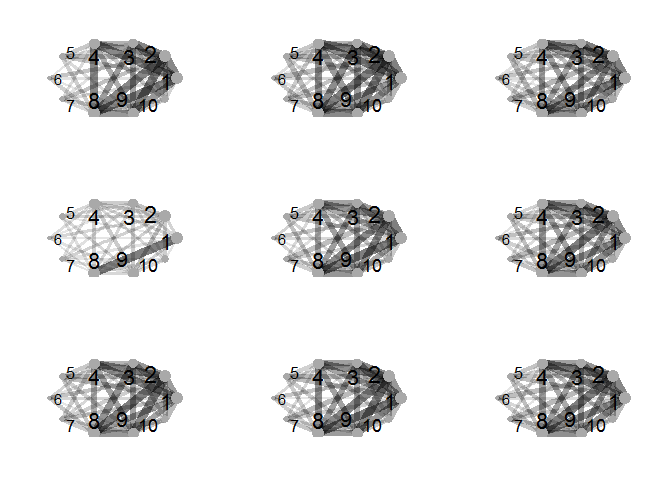
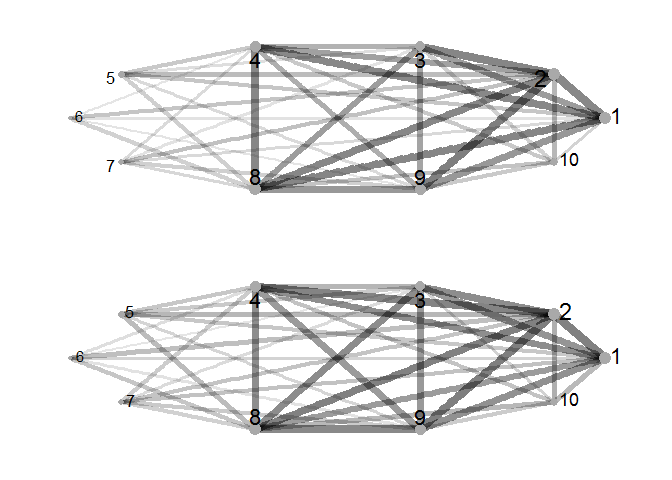
Fixed example in README

diff --git a/README.md b/README.md
@@ -116,10 +116,10 @@ print(fit)
     ## 10    10      4 1.056945e-13 1.000001 <dbl [10 x 10]>
     ## # ... with 190 more rows
 
-Let us plot 9 of the inferred networks selected at random.
+Let us plot 2 of the inferred networks selected at random.
 
 ``` r
-plot_list = lapply(fit[sample(1:n_samples, 9), "M"]$M, plot_network)
+plot_list = lapply(fit[sample(1:n_samples, 2), "M"]$M, plot_network)
 do.call("grid.arrange", plot_list)
 ```
 
